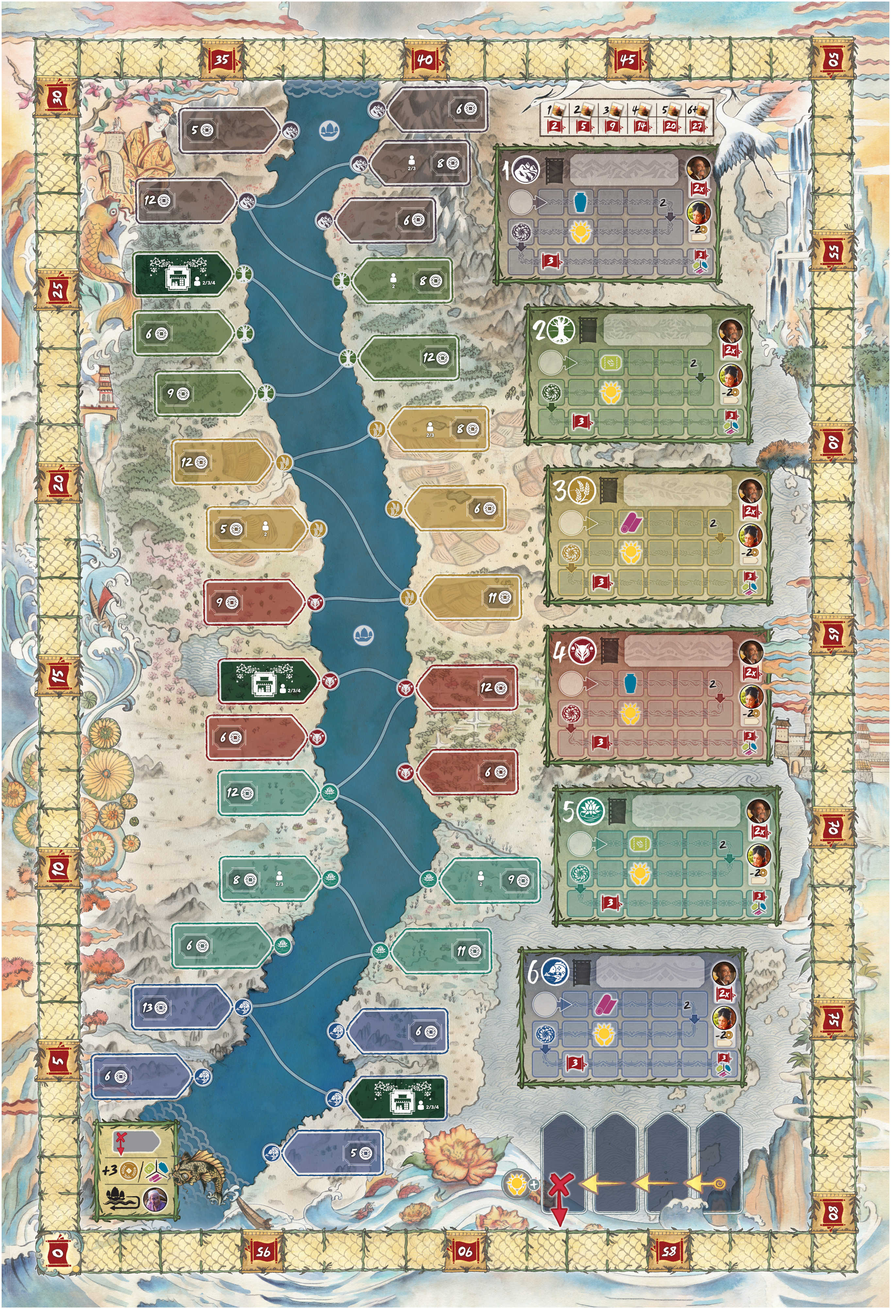
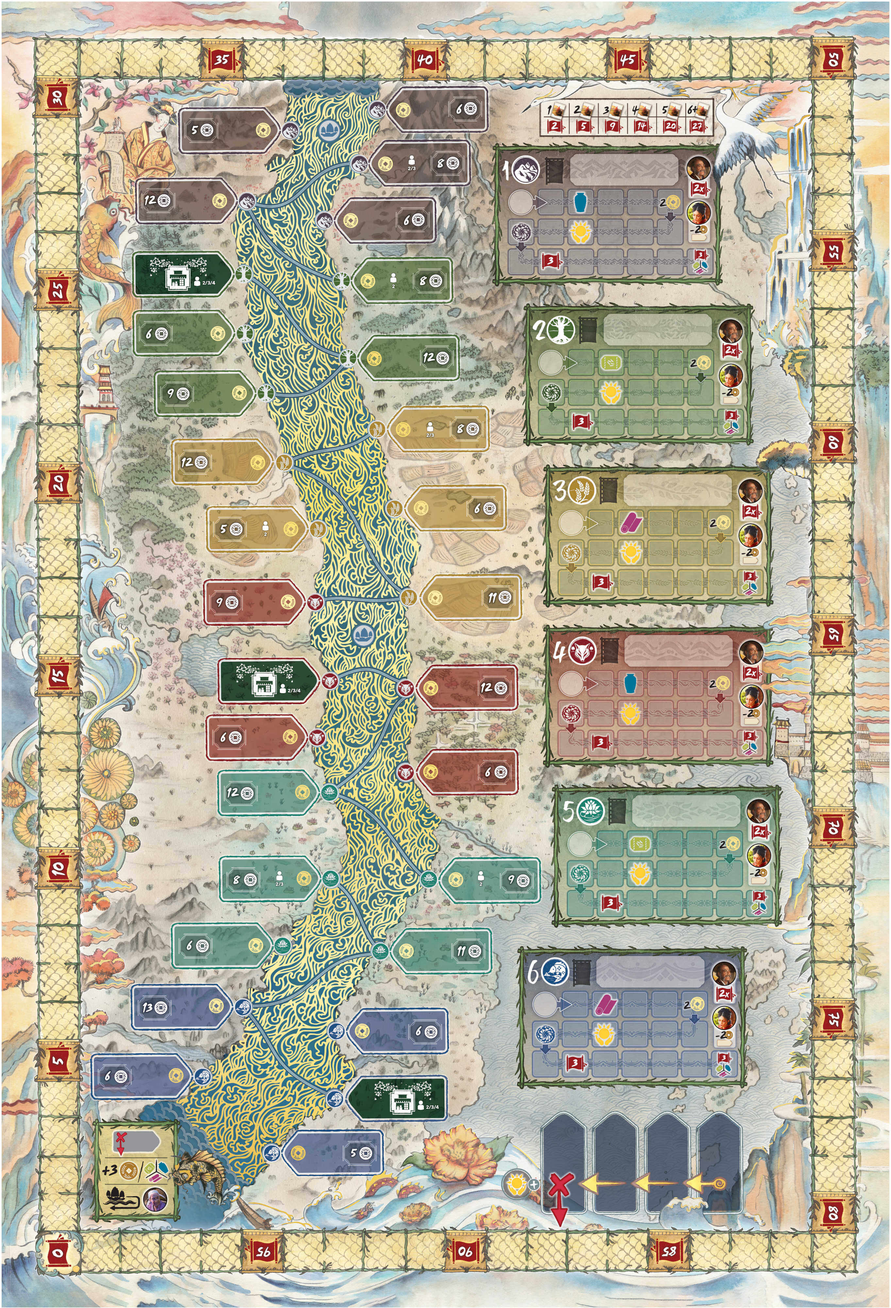
[IMG] Publisher board with gold layer !
+ tinypng
+ update boat shadows

diff --git a/modules/css/meeples.scss b/modules/css/meeples.scss
@@ -100,12 +100,12 @@
     }
     &.tooltipable:not(.selectable):hover{
         //outline: 10px solid black;
-        filter: drop-shadow(0 0 7px black);
+        filter: drop-shadow(0 0 15px black);
         cursor: help;
     }
     &.selectable{
         //outline: 10px solid blue;
-        filter: drop-shadow(0 0 7px #00f3ff);
+        filter: drop-shadow(0 0 15px #00f3ff);
         cursor: pointer;
         &:hover {
             transform: scale(1.2);
@@ -113,7 +113,21 @@
     }
     &.selected{
         //outline: 10px solid #ff04cc;
-        filter: drop-shadow(0 0 7px #ffef00);
+        filter: drop-shadow(0 0 15px red);
+        //add a bounce animation : be careful, it is not compatible with other transform !
+        animation: bounce 2s ease infinite;
+    }
+}
+
+@keyframes bounce {
+    from {
+      transform: scale(1);
+    }
+    50% {
+      transform: scale(1.5);
+    }
+    to {
+      transform: scale(1);
     }
 }
 

diff --git a/riverofgold.css b/riverofgold.css
@@ -3283,20 +3283,32 @@ body[data-rog_panel_details="2"] .rog_player_resource_line_customers {
   background-position-x: 100%;
 }
 .rog_meeple.tooltipable:not(.selectable):hover {
-  filter: drop-shadow(0 0 7px black);
+  filter: drop-shadow(0 0 15px black);
   cursor: help;
 }
 .rog_meeple.selectable {
-  filter: drop-shadow(0 0 7px #00f3ff);
+  filter: drop-shadow(0 0 15px #00f3ff);
   cursor: pointer;
 }
 .rog_meeple.selectable:hover {
   transform: scale(1.2);
 }
 .rog_meeple.selected {
-  filter: drop-shadow(0 0 7px #ffef00);
+  filter: drop-shadow(0 0 15px red);
+  animation: bounce 2s ease infinite;
 }
 
+@keyframes bounce {
+  from {
+    transform: scale(1);
+  }
+  50% {
+    transform: scale(1.5);
+  }
+  to {
+    transform: scale(1);
+  }
+}
 .rog_tile .rog_meeple {
   position: absolute;
   left: 119px;
